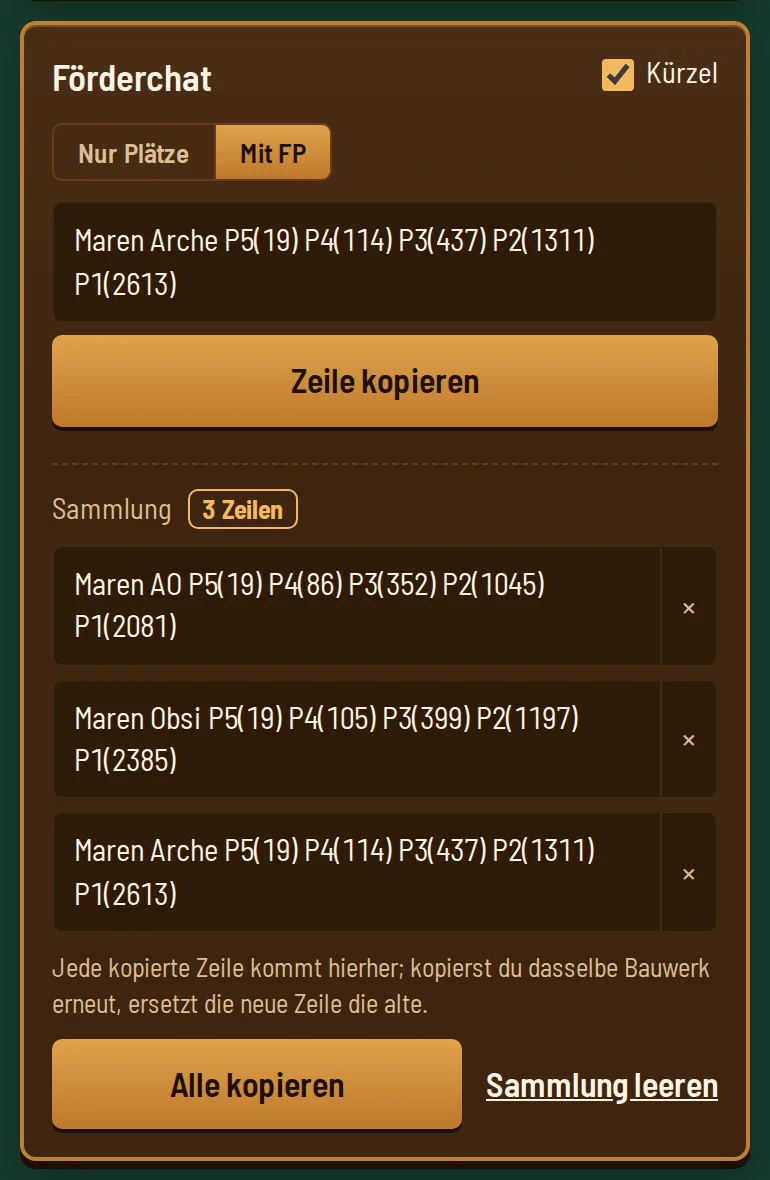
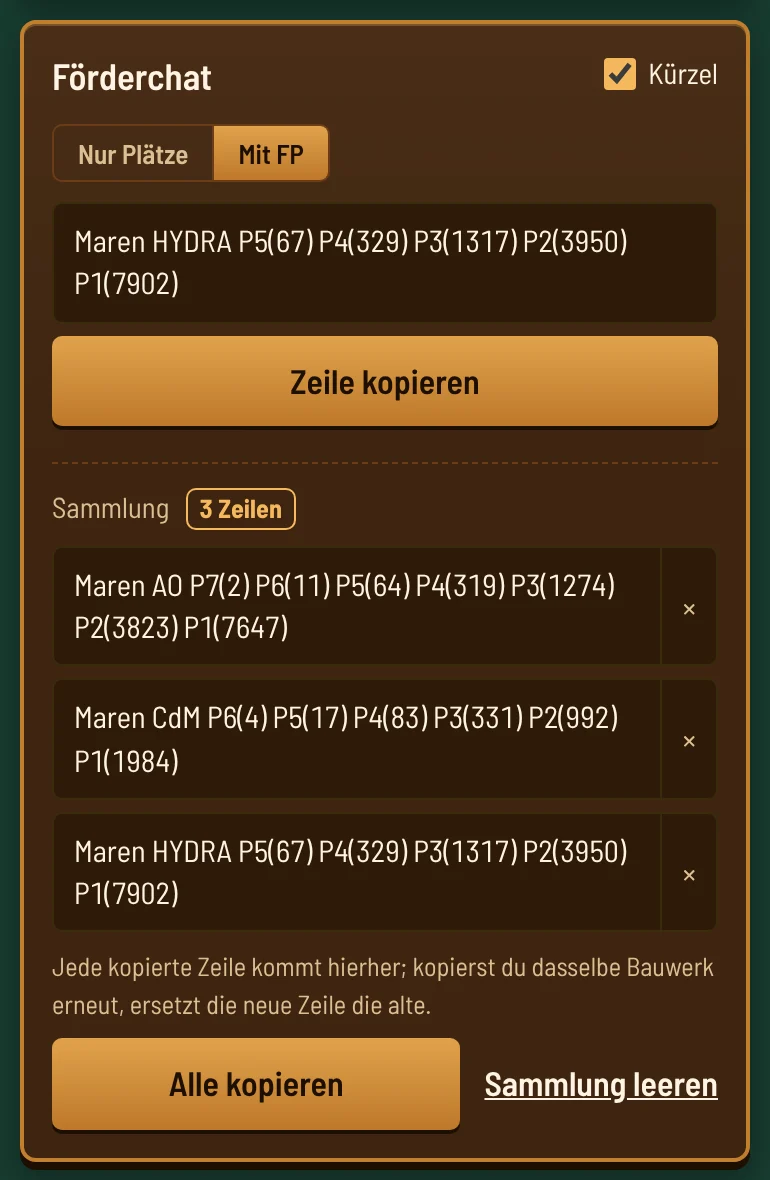
Rundgang und Vorschaubild auf den Stand nach dem Prestige-Update (#87)
Bildschirmfotos mit echten Ablesungen aus dem Spiel neu erzeugt, Rundgang-Texte an Kupfer/Gold und eingetragene Gesamt-FP angepasst, Vorschaubild nennt P1–P7. Das Erklärvideo zeigt noch den alten Stand.

Claude-Session: https://claude.ai/code/session_014Gj4QRRVJc7aa38vkdgiZw

diff --git a/rundgang.html b/rundgang.html
@@ -53,7 +53,7 @@
       "@id": "https://foe-foerderrechner.com/rundgang#webpage",
       "url": "https://foe-foerderrechner.com/rundgang",
       "name": "FoE-Förderrechner mit Arche-Faktor für LGs — cipher",
-      "description": "Ein Rundgang durch cipher, einen Förderrechner für Legendäre Bauwerke in Forge of Empires: Mäzenplätze P1–P5 sichern, Arche-Faktor einrechnen, FP-Einsatz planen, Chat-Zeile kopieren.",
+      "description": "Ein Rundgang durch cipher, einen Förderrechner für Legendäre Bauwerke in Forge of Empires: Mäzenplätze P1–P7 sichern, Arche-Faktor einrechnen, FP-Einsatz planen, Chat-Zeile kopieren.",
       "inLanguage": "de",
       "isPartOf": { "@id": "https://foe-foerderrechner.com/#website" },
       "about": { "@id": "https://foe-foerderrechner.com/#app" },
@@ -214,9 +214,10 @@
       <p class="kicker">Arche-Faktor</p>
       <h3>Ein Faktor für alle — oder einer je Platz</h3>
       <p>Der Faktor läuft über einen Stepper mit Schnellwahl für die üblichen Werte. Getippt werden darf, wie es gerade kommt: <code>1,93</code>, <code>1.93</code>, <code>193</code> oder <code>193 %</code> meinen alle dasselbe.</p>
-      <p>Weil der Arche-Bonus dem Förderer gehört und nicht dem Bauwerk, lässt sich hinter „Faktor oder FP je Platz“ jeder der fünf Plätze einzeln einstellen.</p>
+      <p>Weil der Arche-Bonus dem Förderer gehört und nicht dem Bauwerk, lässt sich hinter „Faktor oder FP je Platz“ jeder Platz einzeln einstellen.</p>
       <ul class="ticks">
         <li>Schnellwahl: 1,80 · 1,85 · 1,90 · 1,92 · 1,95 · 2,00 — erlaubt ist alles von 1,00 bis 2,00.</li>
+        <li>Kupfer- und Gold-Stufen haben je einen eigenen Faktor: Auf Gold-Stufen zählt der Gold-Mäzen-Bonus, nicht die Arche. cipher nimmt automatisch den passenden.</li>
         <li>Je Platz wahlweise als Faktor oder als fester FP-Betrag, etwa wenn jemand einen Platz mit krummer Summe übernimmt.</li>
         <li>Ein Platz <em>folgt</em> dem Wert oben, bis du ihn anfasst — danach ist er <em>angepasst</em>. „Alle wieder angleichen“ holt alle zurück.</li>
         <li>Kein Schieberegler, der beim Scrollen versehentlich springt.</li>
@@ -239,15 +240,15 @@
     <div class="feature-text reveal">
       <p class="kicker">Förderplan</p>
       <h3>Was jeder Platz kostet — und was du vorstreckst</h3>
-      <p>Für jeden der fünf Mäzen-Plätze stehen Belohnung und Kosten samt Arche-Bonus da. Die letzte Spalte sagt, was du vorab einzahlen musst, damit der Platz nicht mehr überboten werden kann.</p>
+      <p>Für jeden Mäzen-Platz stehen Belohnung und Kosten samt Arche-Bonus da — fünf auf Kupfer-Stufen, sieben auf Gold-Stufen. Die letzte Spalte sagt, was du vorab einzahlen musst, damit der Platz nicht mehr überboten werden kann.</p>
       <p>Ein Tipp auf die Spaltenüberschrift wechselt zwischen zwei verbreiteten Lesarten: <strong>Sichern</strong> zeigt den Schritt je Platz, <strong>Eigen</strong> deinen laufenden Stand.</p>
       <ul class="ticks">
         <li>Häkchen antippen — erst „vergeben“ (Strich): schon belegt, zählt weiter zu den Förderern, fällt aber aus dem Chat. Noch einmal — der Platz wird nicht angeboten und zählt zu deinen eigenen FP.</li>
         <li>Unter „Schon im Bauwerk“ trägst du ein, was jetzt drin ist: deine FP und die von Fremdeinzahlern und Snipern. cipher setzt jeden Betrag auf den Platz, den er damit behält, und rechnet vom jetzigen Stand aus.</li>
-        <li>Mehr eingezahlt als nötig? „Überzahlt? Faktor anpassen“ senkt den Faktor für alle offenen Plätze gleich, bis sie trotzdem sicher passen. Wahlweise bleiben ein paar FP zum Leveln für dich, oder P5 schließt die Stufe ab und den Rest teilen sich alle Plätze — keiner zahlt drauf.</li>
-        <li>Ein Balken zeigt die Aufteilung auf deine FP (grün) und P1 bis P5.</li>
+        <li>Mehr eingezahlt als nötig? „Überzahlt? Faktor anpassen“ senkt den Faktor für alle offenen Plätze gleich, bis sie trotzdem sicher passen. Wahlweise bleiben ein paar FP zum Leveln für dich, oder der letzte Platz schließt die Stufe ab und den Rest teilen sich alle Plätze — keiner zahlt drauf.</li>
+        <li>Ein Balken zeigt die Aufteilung auf deine FP (grün) und die Mäzen-Plätze.</li>
         <li>Unter der Tabelle: Gesamt, Förderer, Eigen in FP und Prozent — grün sind überall deine eigenen FP — und ein Kasten, der erklärt, wann du was einzahlst.</li>
-        <li>Fehlen dem Datensatz Kosten oder P1 für eine sehr hohe Stufe, sagt cipher das offen und rechnet mit deinen Zahlen aus dem Förderfenster weiter.</li>
+        <li>Die Gesamt-FP einer Stufe trägst du einmal aus dem Förderfenster ein. Seit dem Prestige-Update rechnet cipher daraus jeden Platz so, wie ihn das Spiel zeigt, und merkt sich die Zahl.</li>
       </ul>
     </div>
   </article>

diff --git a/tools/screenshots.js b/tools/screenshots.js
@@ -20,14 +20,31 @@ const OUT = path.join(ROOT, "bilder");
 const PORT = 4179;
 const BASE = `http://localhost:${PORT}`;
 
-/** Ein ruhiger, gut lesbarer Ausgangszustand. */
+/**
+ * Ein ruhiger, gut lesbarer Ausgangszustand: Saturn VI Tor HYDRA auf Stufe
+ * 89, eine Kupfer-Stufe mit fuenf Plaetzen.
+ */
 const STATE = {
-  building: "The_Arc",
-  level: 80,
+  building: "Saturn_VI_Gate_HYDRA",
+  level: 89,
   factor: 190,
   name: "Maren",
   theme: "forge",
-  enabled: [true, true, true, true, true]
+  enabled: [true, true, true, true, true, true, true]
+};
+
+/**
+ * Gesamt-FP, wie sie seit dem Prestige-Update eingetragen werden. Nur echte
+ * Ablesungen aus dem Spiel (5.11.2026, siehe test/prestige.test.js), damit
+ * kein Bild eine erfundene Zahl zeigt.
+ */
+const COSTS = {
+  "Saturn_VI_Gate_HYDRA:89": 28556,
+  "The_Arc:189": 136088,
+  "Castel_del_Monte:112": 22732,
+  "Arctic_Orangery:155": 87593,
+  "Observatory:102": 7604,
+  "The_Kraken:112": 26574
 };
 
 /**
@@ -64,7 +81,7 @@ async function open(context, storage, theme) {
     localStorage.clear();
     for (const key of Object.keys(items)) localStorage.setItem(key, JSON.stringify(items[key]));
     sessionStorage.setItem("seeded", "1");
-  }, [Object.assign({ "cipher:state": Object.assign({}, STATE, theme ? { theme } : {}) }, storage || {})]);
+  }, [Object.assign({ "cipher:state": Object.assign({}, STATE, theme ? { theme } : {}), "cipher:costs": COSTS }, storage || {})]);
   await page.goto(BASE + "/index.html", { waitUntil: "networkidle" });
   await page.emulateMedia({ reducedMotion: "reduce" });
   await page.waitForTimeout(150);
@@ -103,11 +120,11 @@ async function main() {
 
   try {
     const favorites = [
-      { id: "The_Arc", level: 80 },
-      { id: "Arctic_Orangery", level: 64 },
-      { id: "Observatory", level: 112 },
-      { id: "Innovation_Tower", level: 35 },
-      { id: "Atomium", level: 90 }
+      { id: "Saturn_VI_Gate_HYDRA", level: 89 },
+      { id: "The_Arc", level: 189 },
+      { id: "Castel_del_Monte", level: 112 },
+      { id: "Arctic_Orangery", level: 155 },
+      { id: "Observatory", level: 102 }
     ];
 
     // ---- Der erste Blick: Bauwerk, Stufe, Faktor
@@ -145,7 +162,7 @@ async function main() {
     // ---- Foerderchat mit Sammlung
     context = await browser.newContext({ ...phone, permissions: ["clipboard-read", "clipboard-write"] });
     page = await open(context, { "cipher:state": Object.assign({}, STATE, { useAbbr: true }) });
-    for (const [id, level] of [["Arctic_Orangery", 64], ["Observatory", 112], ["The_Arc", 80]]) {
+    for (const [id, level] of [["Arctic_Orangery", 155], ["Castel_del_Monte", 112], ["Saturn_VI_Gate_HYDRA", 89]]) {
       await page.locator("#building").selectOption(id, { force: true });
       await page.fill("#level", String(level));
       await page.locator("#level").blur();

diff --git a/tools/og-image.js b/tools/og-image.js
@@ -86,7 +86,7 @@ li {
     <h1>Förderrechner für Forge of Empires</h1>
     <h2>Arche &amp; Legendäre Bauwerke</h2>
     <ul>
-      <li>Mäzenplätze P1–P5 sichern</li>
+      <li>Mäzenplätze P1–P7 sichern</li>
       <li>Arche-Faktor 1,00–2,00</li>
       <li>FP-Einsatz planen</li>
       <li>Chat-Zeile fertig</li>
